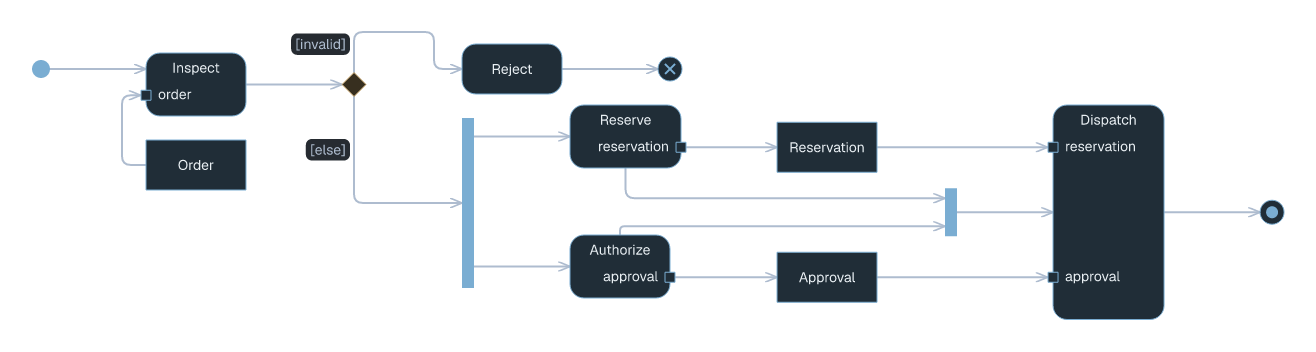
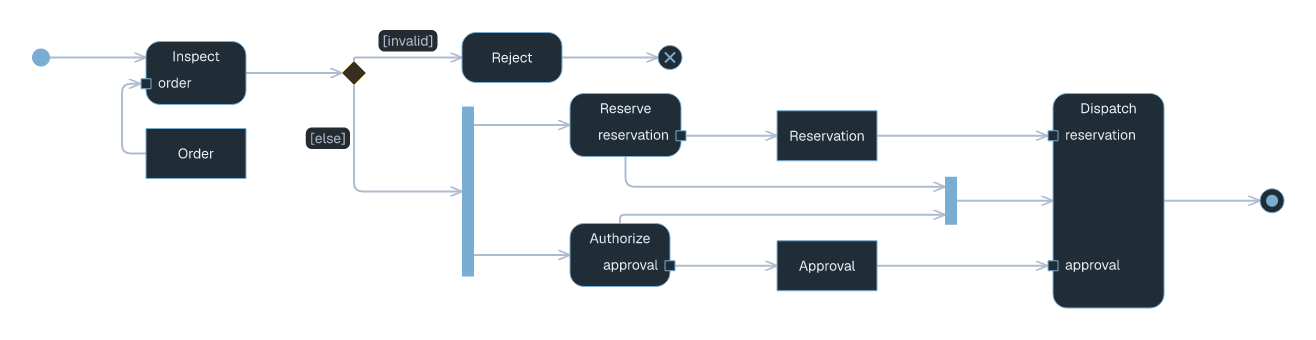
Remove unnecessary detour from upper activity decision branch

diff --git a/tests/activity.rs b/tests/activity.rs
@@ -204,15 +204,19 @@ fn parallel_activity_places_objects_in_lanes_without_diagonal_or_crossing_flows(
     }
     let (decision, reject) = (node("Valid"), node("Reject"));
     let invalid = &flow("Valid", "Reject").points;
-    assert_eq!(invalid.len(), 5);
+    assert_eq!(
+        invalid.len(),
+        3,
+        "top exit needs only one elbow before Reject"
+    );
     assert!((invalid[0].x - decision.x - decision.width / 2.0).abs() < 0.01);
     assert!(
         (invalid[0].y - decision.y).abs() < 0.01,
         "invalid exits at the diamond top"
     );
-    assert!((invalid[4].x - reject.x).abs() < 0.01);
+    assert!((invalid[2].x - reject.x).abs() < 0.01);
     assert!(
-        (invalid[4].y - reject.y - reject.height / 2.0).abs() < 0.01,
+        (invalid[2].y - reject.y - reject.height / 2.0).abs() < 0.01,
         "invalid enters the middle of Reject's left side"
     );
     assert!(

diff --git a/src/route/activity_preferred.rs b/src/route/activity_preferred.rs
@@ -119,20 +119,15 @@ pub(super) fn activity_decision_above_action(a: &BoxNode, b: &BoxNode) -> Option
     }
     let start = forced_port(a, PortSide::Top);
     let end = forced_port(b, PortSide::Left);
-    let top = b.y - 12.0;
-    let approach_x = b.x - 28.0;
-    if top >= start.y - 8.0 || approach_x <= a.x + a.width + 12.0 {
+    if end.y >= start.y - 2.0 {
         return None;
     }
+    // Leave the diamond at its top and use the target's centre row directly.
+    // A raised detour would add two bends without clearing an obstacle.
     Some(vec![
         start,
-        Point { x: start.x, y: top },
         Point {
-            x: approach_x,
-            y: top,
-        },
-        Point {
-            x: approach_x,
+            x: start.x,
             y: end.y,
         },
         end,

diff --git a/docs/diagrams/activity.md b/docs/diagrams/activity.md
@@ -49,8 +49,8 @@ styling {
 ```
 
 <picture>
-  <source media="(prefers-color-scheme: dark)" srcset="../images/activity-order-modern-dark.png?v=activity-gateway-docking-20261104">
-  <img src="../images/activity-order-modern.png?v=activity-gateway-docking-20261104" alt="Order activity with guarded decision and extended fork/join">
+  <source media="(prefers-color-scheme: dark)" srcset="../images/activity-order-modern-dark.png?v=activity-invalid-one-bend-20261104">
+  <img src="../images/activity-order-modern.png?v=activity-invalid-one-bend-20261104" alt="Order activity with guarded decision and extended fork/join">
 </picture>
 
 [Complete source](../../examples/activity-order.laml). A `decision` uses guarded outgoing paths; `fork` and `join` split and rejoin parallel paths. `length` extends the fork along its long axis so both outgoing arrows can run horizontally. `flowFinal` ends one path, `activityFinal` ends the activity.
@@ -66,8 +66,8 @@ object Approval --> Dispatch::approval
 ```
 
 <picture>
-  <source media="(prefers-color-scheme: dark)" srcset="../images/activity-order-modern-dark.png?v=activity-gateway-docking-20261104">
-  <img src="../images/activity-order-modern.png?v=activity-gateway-docking-20261104" alt="Named action pins and object nodes in the order activity">
+  <source media="(prefers-color-scheme: dark)" srcset="../images/activity-order-modern-dark.png?v=activity-invalid-one-bend-20261104">
+  <img src="../images/activity-order-modern.png?v=activity-invalid-one-bend-20261104" alt="Named action pins and object nodes in the order activity">
 </picture>
 
 [Complete source](../../examples/activity-order.laml). `Action::pin` addresses an input or output pin. See [GNE](gne.md) for common placement/styling and the [syntax reference](../language-reference.md#activity-diagrams) for vertex and flow forms.
